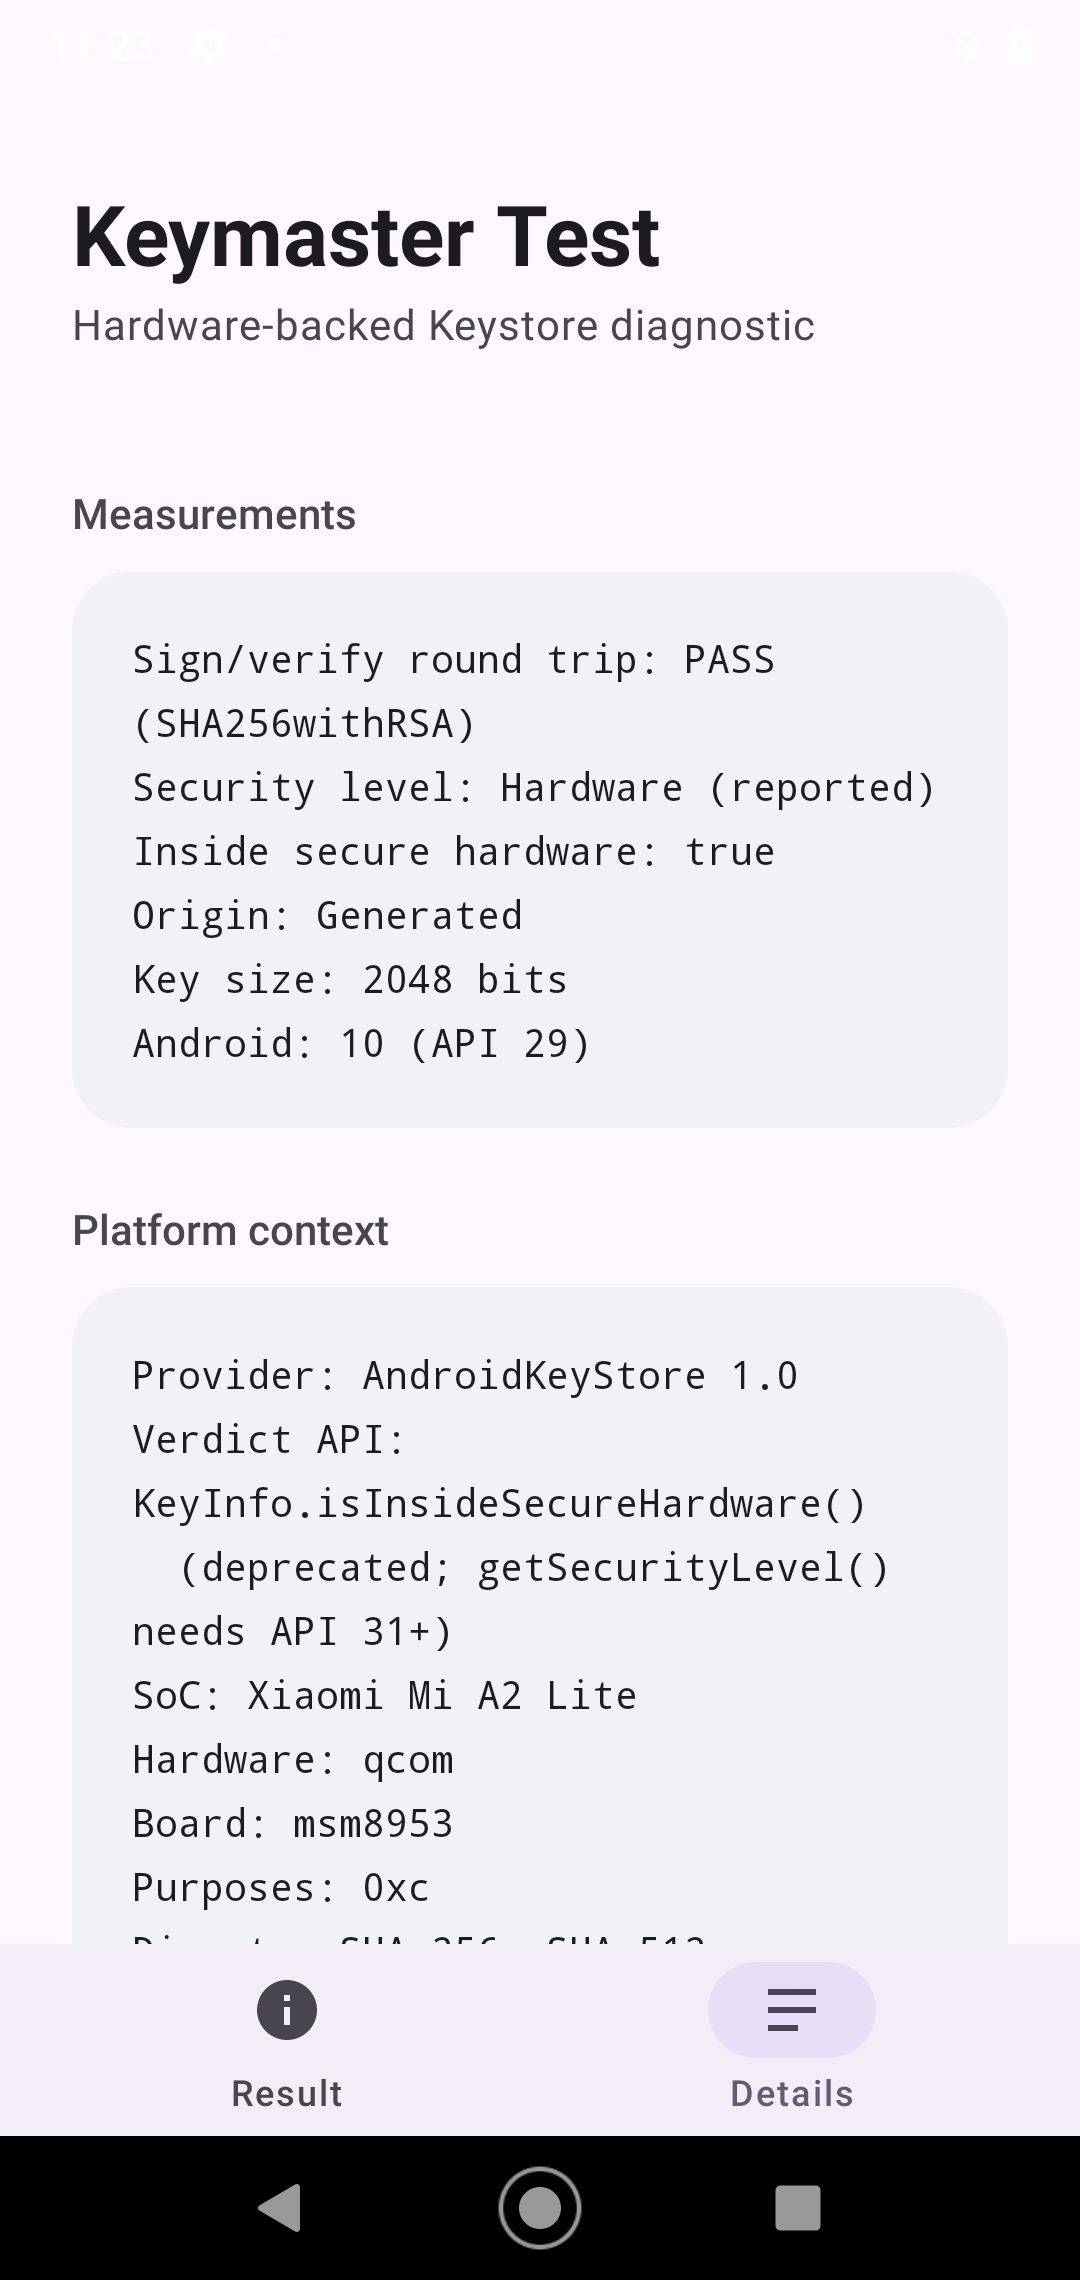
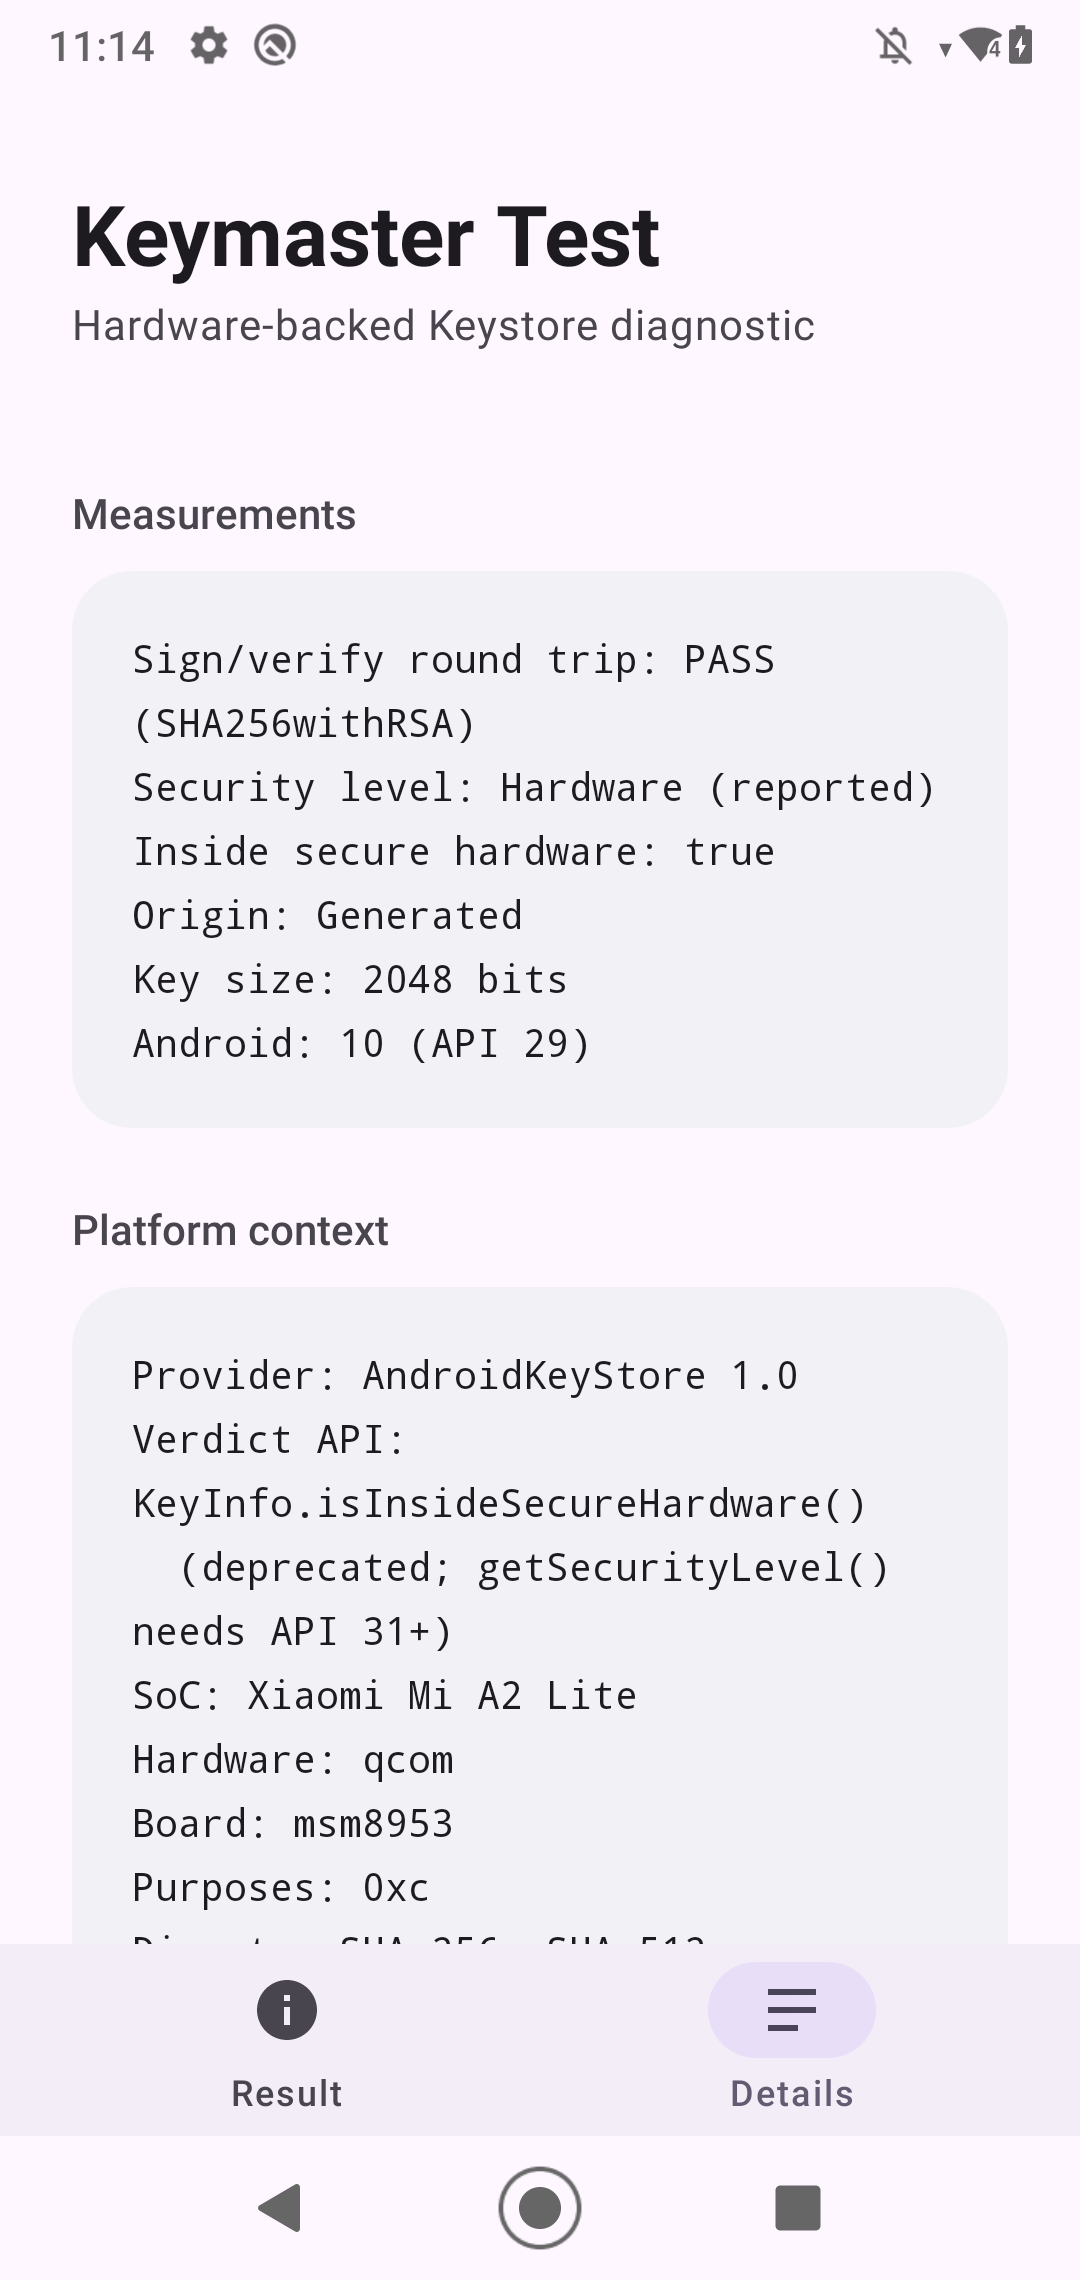
Fix system bar appearance in light mode and bump to 1.1.0
Both system bars sit on the app's light surface but were drawn as if
the app were dark: the status bar had light icons on a light background,
so the clock and battery were unreadable, and the navigation bar was
pure black because android:navigationBarColor was never set at all.

Set navigationBarColor alongside the existing statusBarColor, and move
the WindowInsetsControllerCompat call to after setContentView, since the
light-icon flags only stick once the decor view is attached. The theme
sets neither flag on its own.

Also renders the expanded "Show full error" detail in monospace, which
suits an exception chain better than the proportional body style.

Bumps versionCode to 5 and versionName to 1.1.0.

diff --git a/app/src/main/java/io/github/nezjusz/keymastertest/MainActivity.java b/app/src/main/java/io/github/nezjusz/keymastertest/MainActivity.java
@@ -15,6 +15,8 @@ import androidx.annotation.DrawableRes;
 import androidx.annotation.StringRes;
 import androidx.appcompat.app.AppCompatActivity;
 import androidx.core.content.ContextCompat;
+import androidx.core.view.WindowCompat;
+import androidx.core.view.WindowInsetsControllerCompat;
 
 import com.google.android.material.bottomnavigation.BottomNavigationView;
 import com.google.android.material.button.MaterialButton;
@@ -76,6 +78,7 @@ public class MainActivity extends AppCompatActivity {
         super.onCreate(savedInstanceState);
         DynamicColors.applyToActivityIfAvailable(this);
         setContentView(R.layout.activity_main);
+        applySystemBarAppearance();
 
         loading = findViewById(R.id.loading);
         resultTab = findViewById(R.id.result_tab);
@@ -119,6 +122,21 @@ public class MainActivity extends AppCompatActivity {
         boolean showResult = itemId == R.id.nav_result;
         resultTab.setVisibility(showResult ? View.VISIBLE : View.GONE);
         detailsTab.setVisibility(showResult ? View.GONE : View.VISIBLE);
+    }
+
+    /**
+     * Both system bars sit on the app's light surface, so their icons have to be dark to stay
+     * readable. The Material DayNight theme sets neither flag, and the insets controller only
+     * takes effect once the decor view is attached, so this runs after setContentView.
+     */
+    private void applySystemBarAppearance() {
+        int nightMask = getResources().getConfiguration().uiMode
+                & android.content.res.Configuration.UI_MODE_NIGHT_MASK;
+        boolean light = nightMask != android.content.res.Configuration.UI_MODE_NIGHT_YES;
+        WindowInsetsControllerCompat controller =
+                WindowCompat.getInsetsController(getWindow(), getWindow().getDecorView());
+        controller.setAppearanceLightStatusBars(light);
+        controller.setAppearanceLightNavigationBars(light);
     }
 
     @Override
